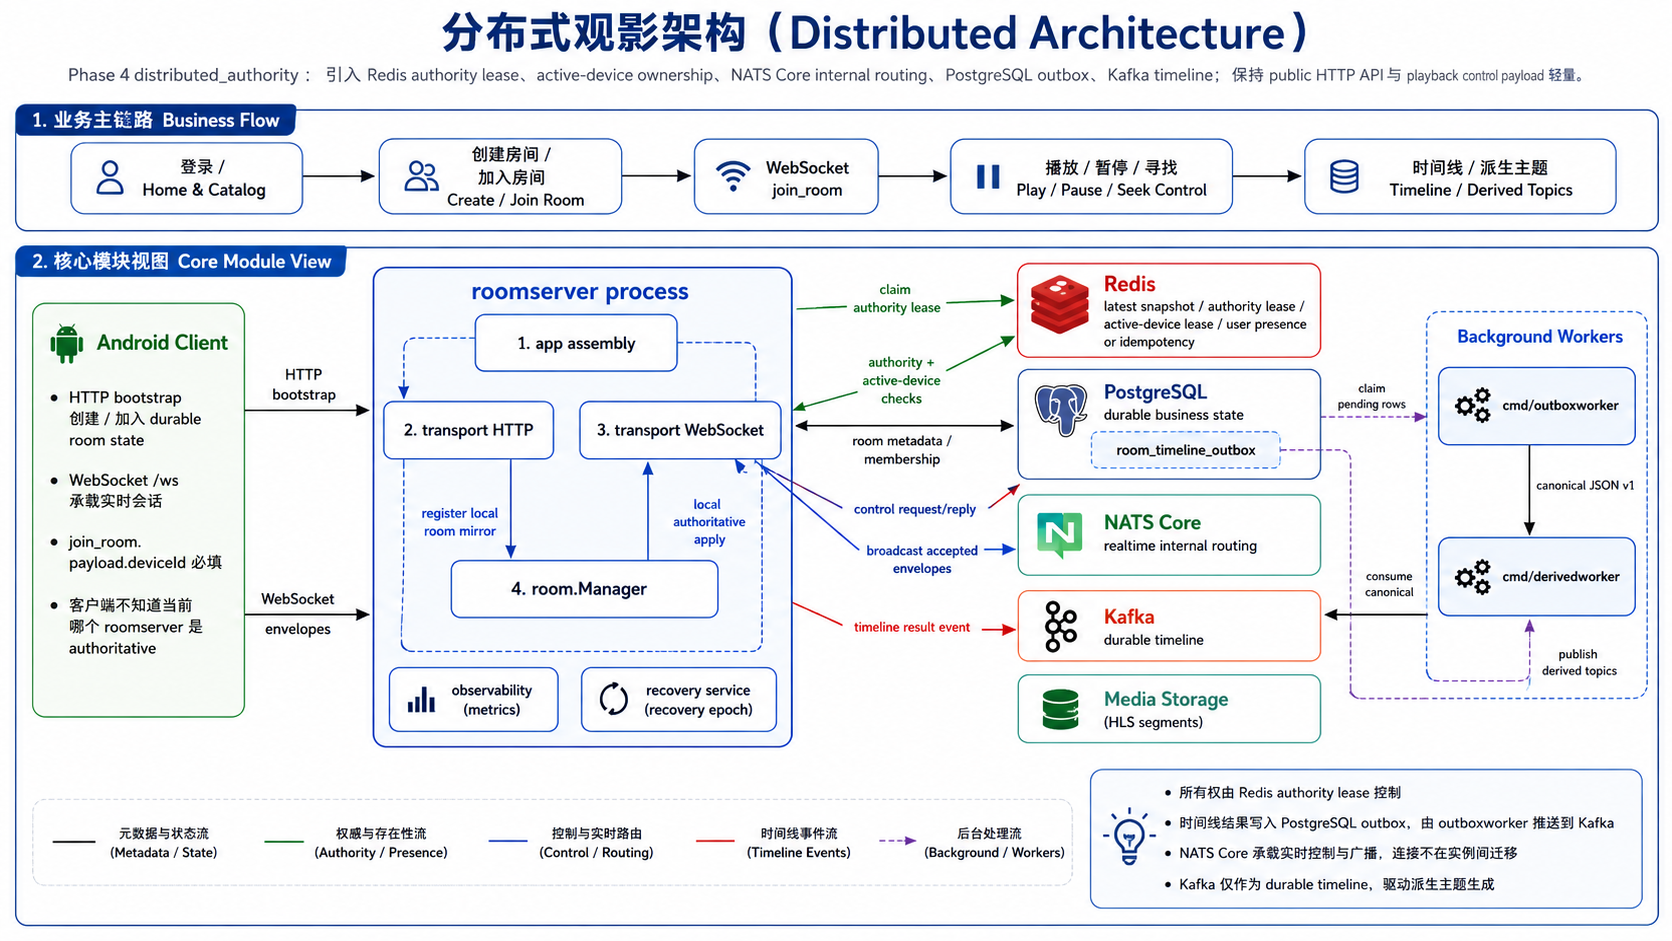
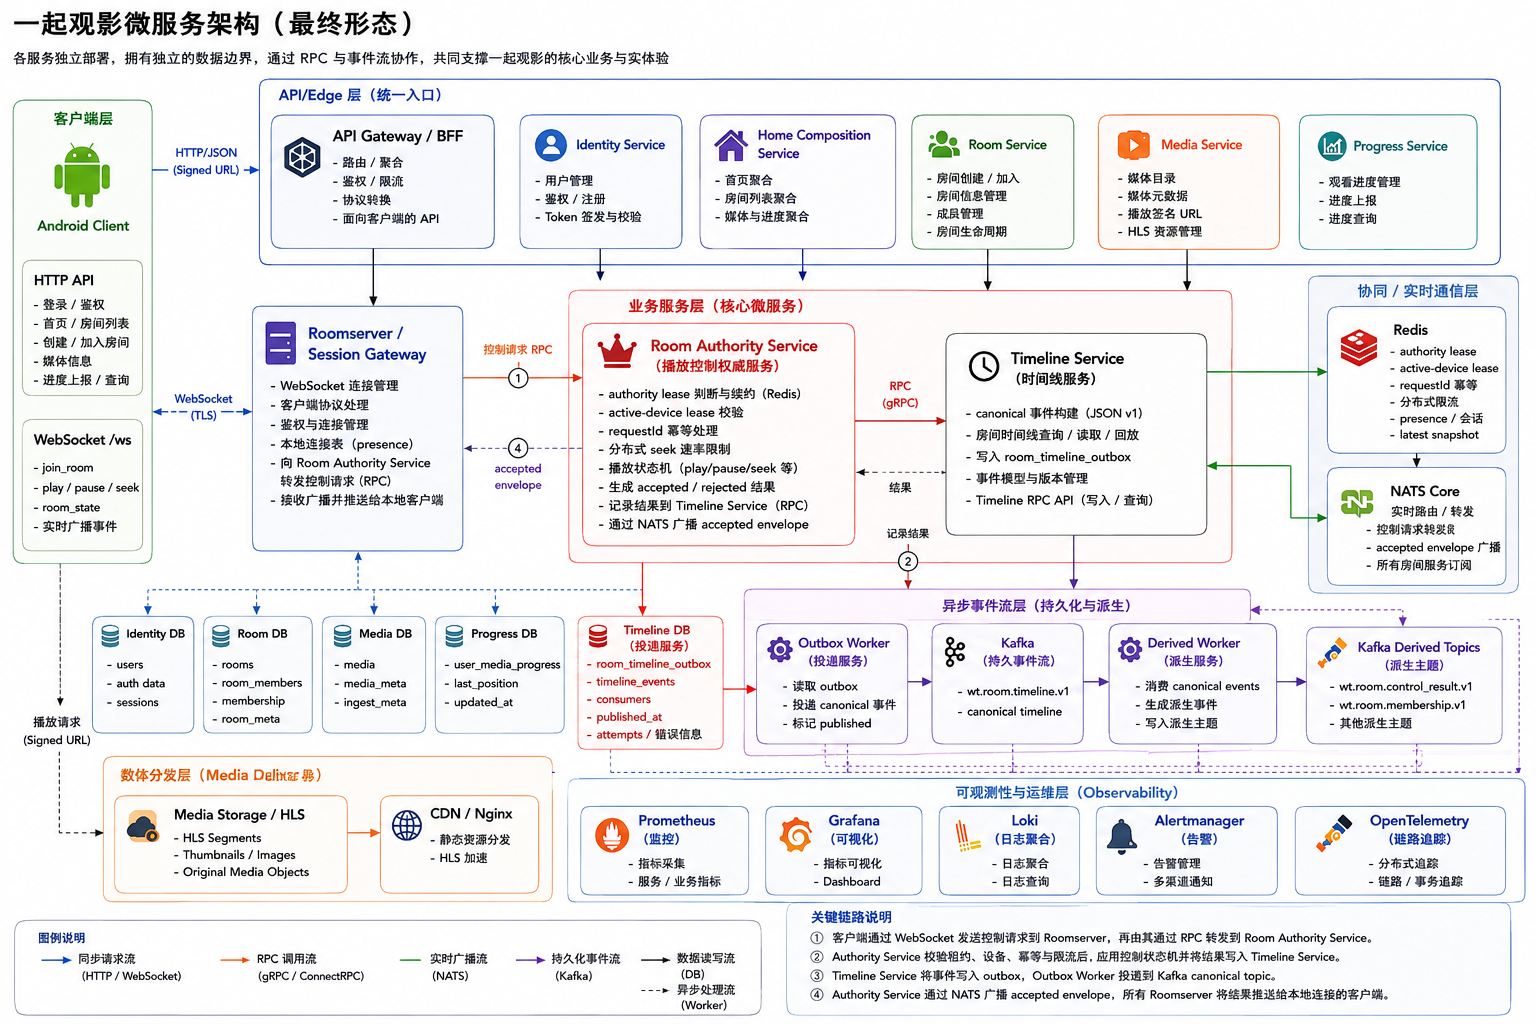
chore: add some TODOS

Changed region(s): [[0.0, 0.0, 1.0, 1.0]]

diff --git a/server/internal/room/manager.go b/server/internal/room/manager.go
@@ -181,6 +181,8 @@ func (m *Manager) GetOrCreate(roomID string) *Room {
 
 // ActiveClientForUser scans active rooms for the current authoritative room
 // connection of one logical user. It is intentionally process-local for the MVP.
+
+// TODO: 用来全局查找：这个用户现在是否已经在某个房间里在线，如果在线，返回他所在房间和对应的活跃客户端。效率较低
 func (m *Manager) ActiveClientForUser(userID string) (ActiveClientLookup, bool) {
 	m.mu.RLock()
 	defer m.mu.RUnlock()

diff --git a/server/internal/eventbus/room_broadcast.go b/server/internal/eventbus/room_broadcast.go
@@ -140,6 +140,7 @@ func (b *MemoryRoomBroadcastBus) PublishRoomEnvelope(ctx context.Context, event 
 	return nil
 }
 
+// TODO: 可以加入多级优先队列？来让handler不一定要作用到所有的topic之上。
 func (b *MemoryRoomBroadcastBus) SubscribeRoomBroadcasts(ctx context.Context, handler RoomBroadcastHandler) error {
 	if handler == nil {
 		return nil

diff --git a/server/internal/cache/active_device.go b/server/internal/cache/active_device.go
@@ -12,6 +12,7 @@ import (
 
 const defaultActiveDeviceLeaseTTL = 45 * time.Second
 
+// heartbeat tick -> refreshActiveDeviceLeaseForClient -> ActiveDeviceRegistry.Acquire -> Redis SET 同一个 key 并重置 TTL
 type ActiveDeviceLease struct {
 	DeviceID     string `json:"deviceId"`
 	InstanceID   string `json:"instanceId"`

diff --git a/server/internal/transport/websocket_handler.go b/server/internal/transport/websocket_handler.go
@@ -1329,6 +1329,7 @@ func (h *WebSocketHandler) writeRoomDeviceSwitchResult(
 	})
 }
 
+// TODO：会导致产生过多的goroutine吗？
 func (h *WebSocketHandler) scheduleRoomDeviceSwitchTimeout(pending roomDeviceSwitch) {
 	timeout := time.Until(pending.ExpiresAt)
 	if timeout <= 0 {

diff --git a/server/internal/transport/broadcaster.go b/server/internal/transport/broadcaster.go
@@ -62,6 +62,8 @@ func newBoundedBroadcaster(config broadcastConfig) *boundedBroadcaster {
 	}
 }
 
+
+//TODO: 是否会被慢任务拖累，虽然有一个超时机制的协助。
 func (b *boundedBroadcaster) Broadcast(
 	ctx context.Context,
 	clients []clientWriter,

diff --git a/README.md b/README.md
@@ -64,3 +64,6 @@ cd android
 ```
 
 For full configuration, media ingest, API, and sync details, use the docs linked above.
+
+## TODO
+eliminate the code relevant with local development mode 
